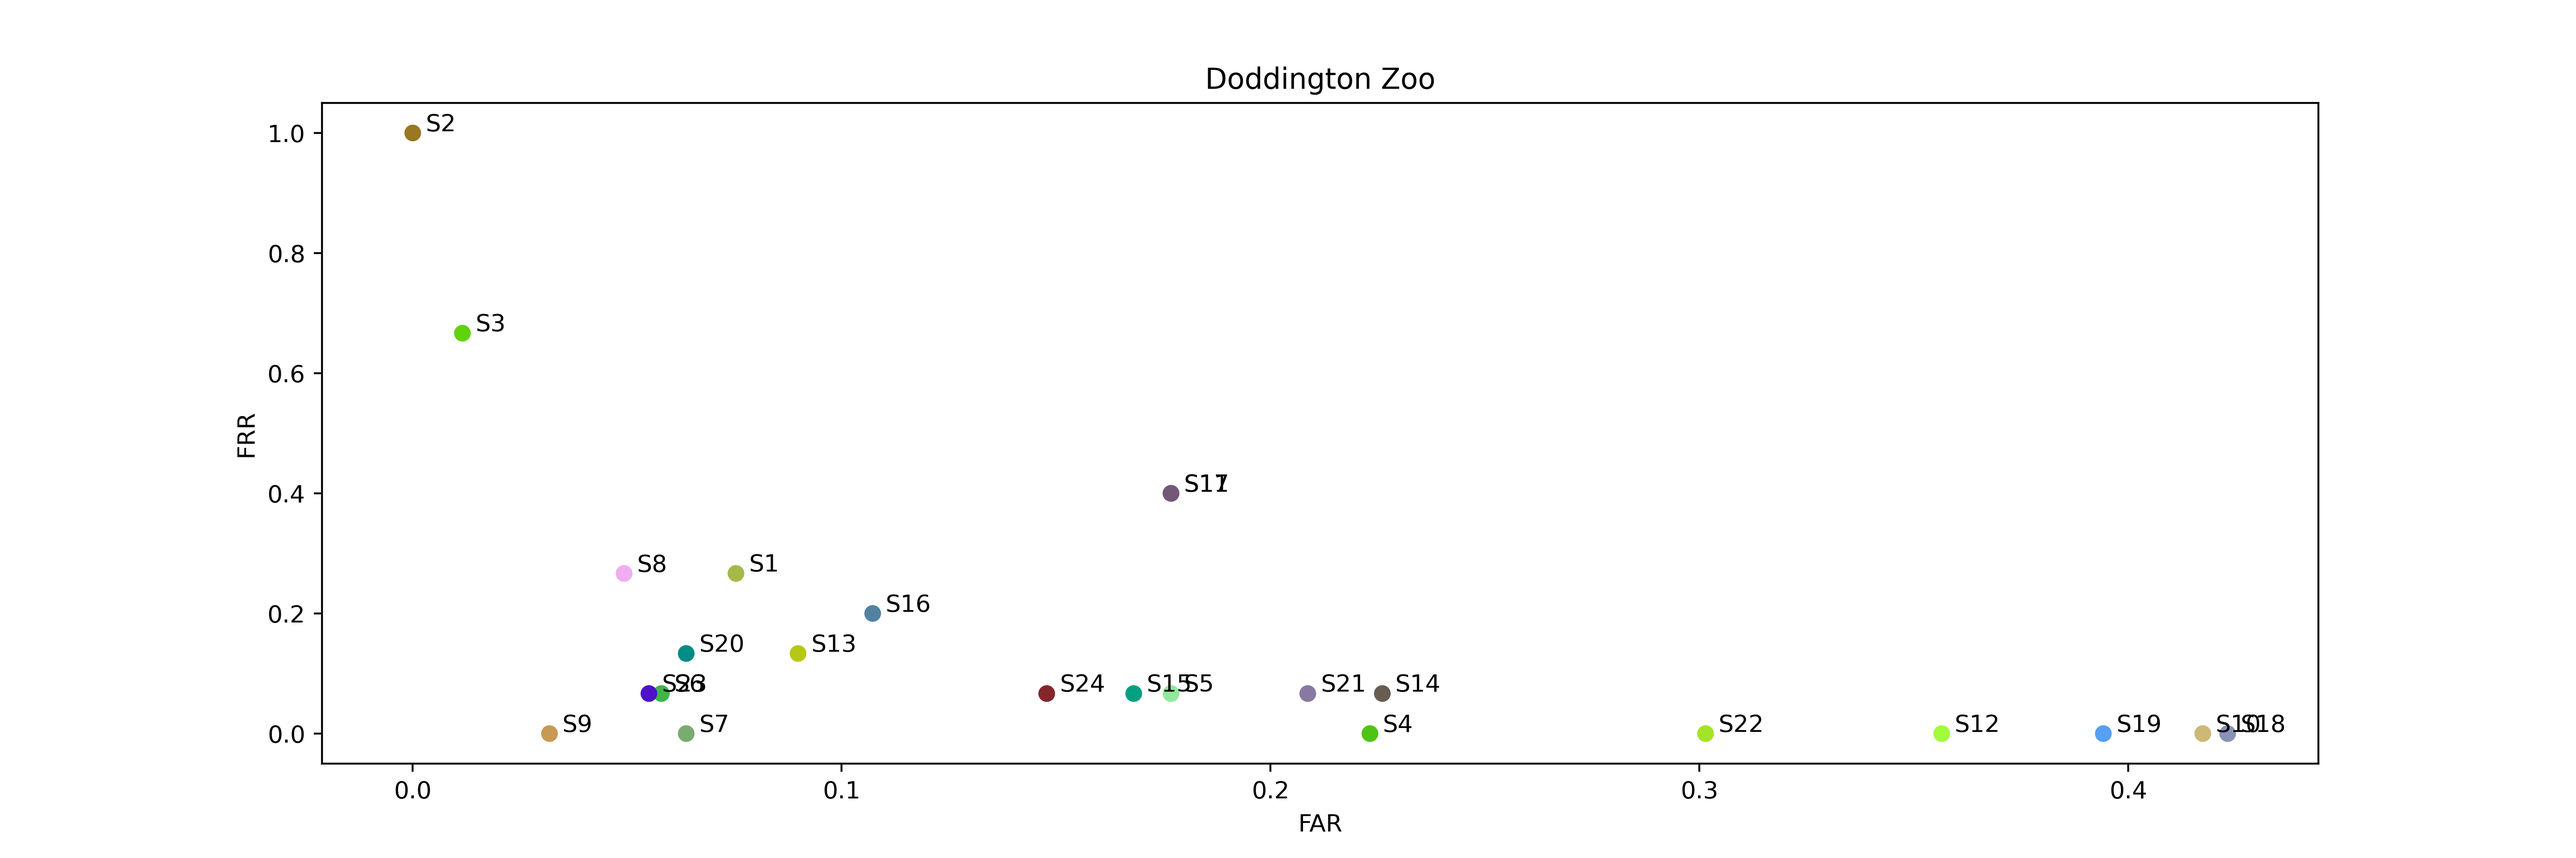
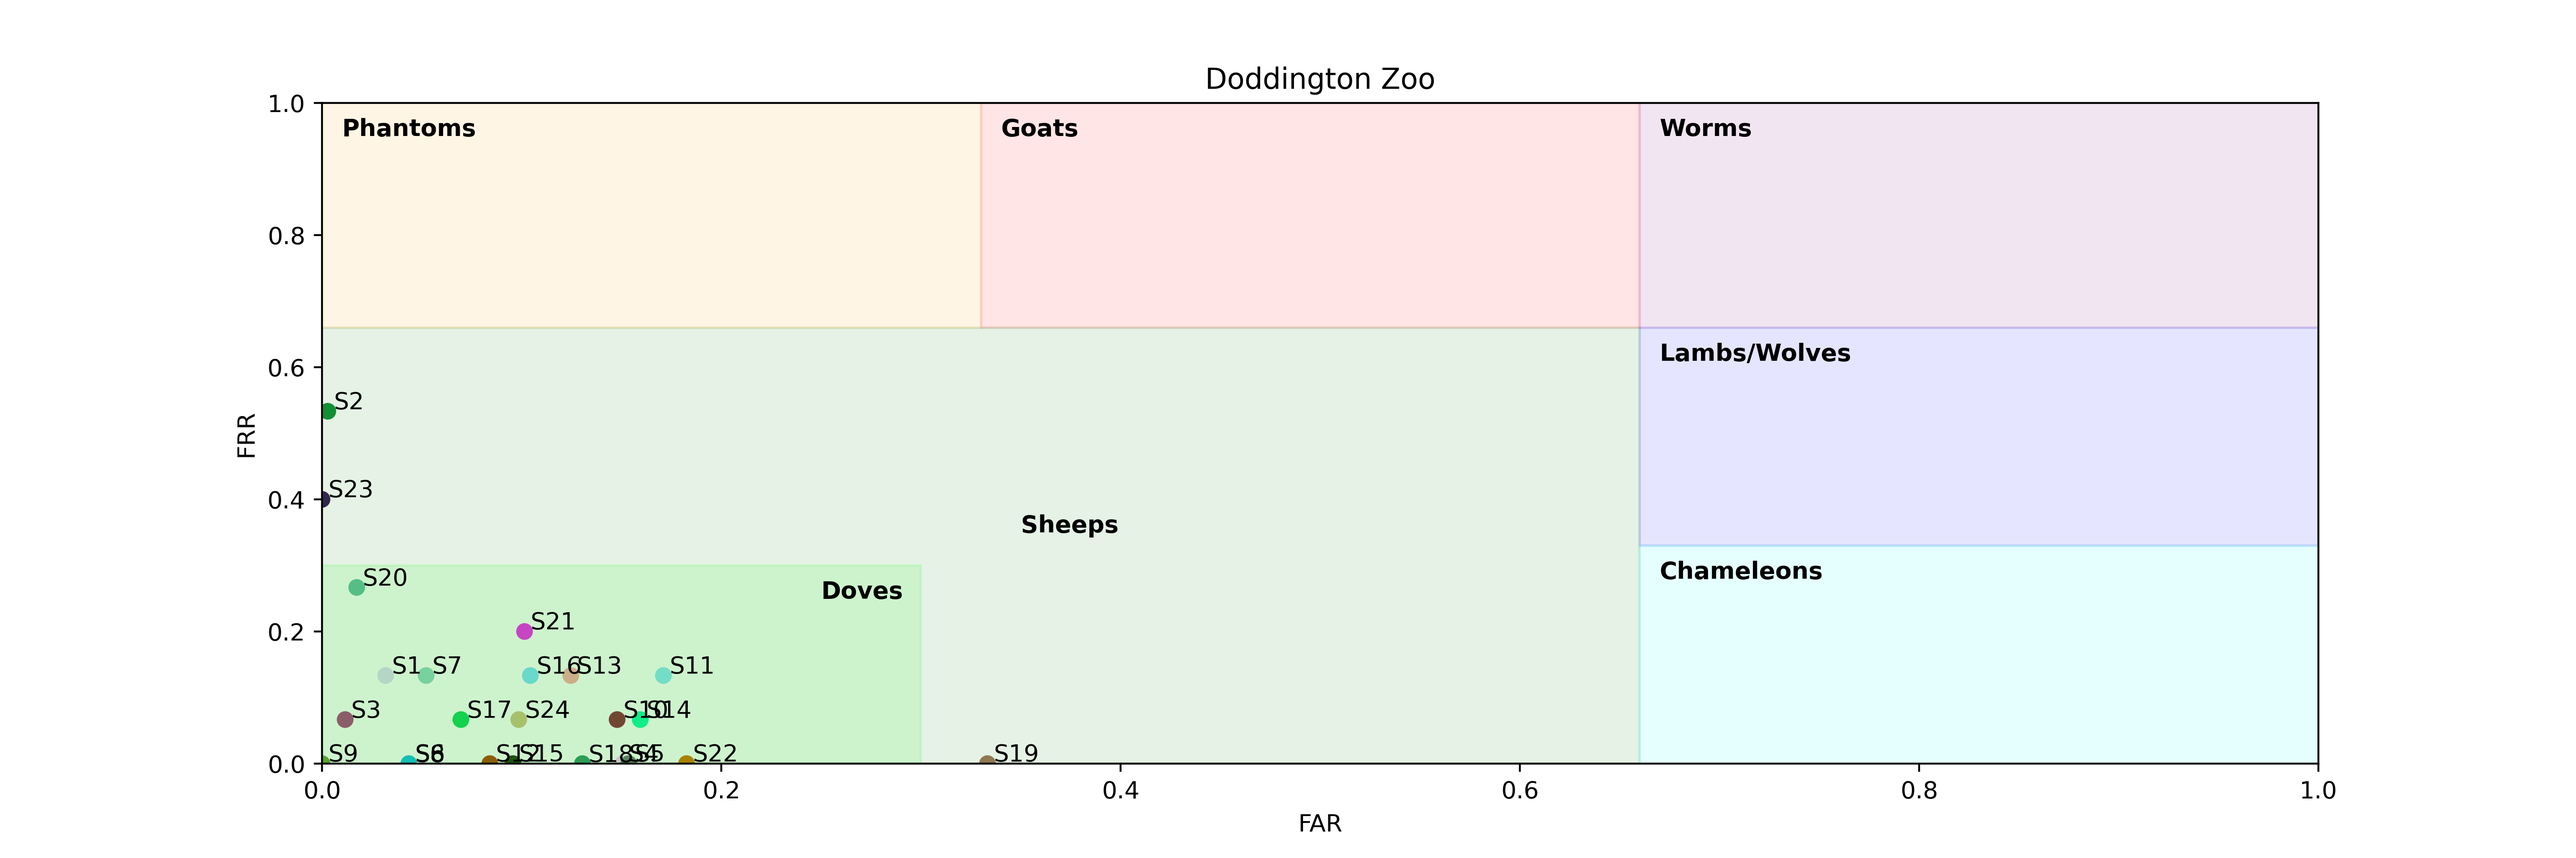
Ridotto numero di features a 100 Modificato doddington zoo

diff --git a/src/recogniser/doddington_zoo.py b/src/recogniser/doddington_zoo.py
@@ -3,6 +3,8 @@ import matplotlib.pyplot as plt
 import numpy as np
 import pandas as pd
 from scipy.spatial.distance import squareform, pdist
+from matplotlib.pyplot import text
+
 
 from src.utilities import config
 
@@ -38,7 +40,8 @@ class Doddigton:
         results = {user: dict({'fa': 0, 'fr': 0, 'ga': 0, 'gr': 0, 'ctr': 0}) for user in set(self.y_label)}
         rows, cols = distance_matrix.shape
 
-        t = 4.66
+        #t = 4.66
+        t = 0.94
 
         for y in range(rows):
             row_label = self.y_label[y]
@@ -102,13 +105,45 @@ class Doddigton:
         axDDGT.title.set_text('Doddington Zoo')
 
 
-        plt.savefig(config.BASE_PLOT_PATH+"doddington_zoo.png", dpi=400)
+        plt.savefig(config.BASE_PLOT_PATH+"doddington_zoo_zoom.png", dpi=400)
         plt.clf()
 
+        fig, (axDDGT) = plt.subplots(ncols=1)
+        fig.set_size_inches(15, 5)
+
+        axDDGT.scatter(far, frr, c=np.random.rand(len(frr),3))
+
+        for i, txt in enumerate(results):
+            axDDGT.annotate(txt.split('_')[0], (far[i]+0.003, frr[i]+0.003))
+
+        axDDGT.set_xlabel('FAR')
+        axDDGT.set_ylabel('FRR')
+        axDDGT.title.set_text('Doddington Zoo')
+
+        axDDGT.set_ylim(0,1)
+        axDDGT.set_xlim(0,1)
+        axDDGT.axvspan(0, 0.33, 0.66, 1, color='orange', alpha=0.1)
+        axDDGT.axvspan(0.33, 0.66, 0.66, 1, color='red', alpha=0.1)
+        axDDGT.axvspan(0.66, 1, 0.66, 1, color='purple', alpha=0.1)
+        axDDGT.axvspan(0, 0.66, 0, 0.66, color='green', alpha=0.1)
+        axDDGT.axvspan(0, 0.3, 0, 0.3, color='lime', alpha=0.1)
+        axDDGT.axvspan(0.66, 1, 0.33, 0.66, color='blue', alpha=0.1)
+        axDDGT.axvspan( 0.66, 1, 0, 0.33, color='cyan', alpha=0.1)
+
+        axDDGT.annotate('Phantoms', (0.01, 0.95), weight="bold")
+        axDDGT.annotate('Goats', (0.34, 0.95), weight="bold")
+        axDDGT.annotate('Worms', (0.67, 0.95), weight="bold")
+        axDDGT.annotate('Sheeps', (0.35, 0.35), weight="bold")
+        axDDGT.annotate('Lambs/Wolves', (0.67, 0.61), weight="bold")
+        axDDGT.annotate('Chameleons', (0.67, 0.28), weight="bold")
+        axDDGT.annotate('Doves', (0.25, 0.25), weight="bold")
+
+        plt.savefig(config.BASE_PLOT_PATH+"doddington_zoo.png", dpi=400)
+        plt.clf()
     def eval_verification(self):
 
         # verification
-        print("Verification Doddington Zoo:")
+        print("Verification Doddington Zoo")
         verification_results = self.verification()
         self.plot_verification_results(verification_results)
     

diff --git a/src/recogniser/wbb_recogniser.py b/src/recogniser/wbb_recogniser.py
@@ -244,11 +244,11 @@ class WBBRecogniser:
         relevance_table = relevance_table[relevance_table.relevant]
         relevance_table.sort_values("p_value", inplace=True)
 
-        rel_features = df[relevance_table["feature"]].to_numpy()
+        rel_features = df[relevance_table["feature"][:100]].to_numpy()
 
         print("Feature selection completed!")
 
-        return rel_features, y_label, relevance_table["feature"]
+        return rel_features, y_label, relevance_table["feature"][:100]
 
     def perform_evaluation(self):
 
